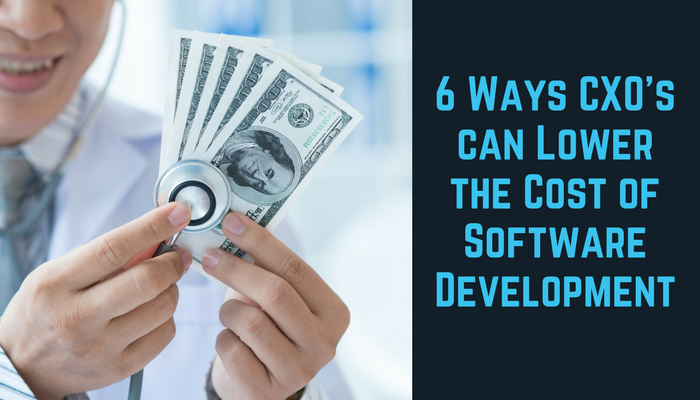
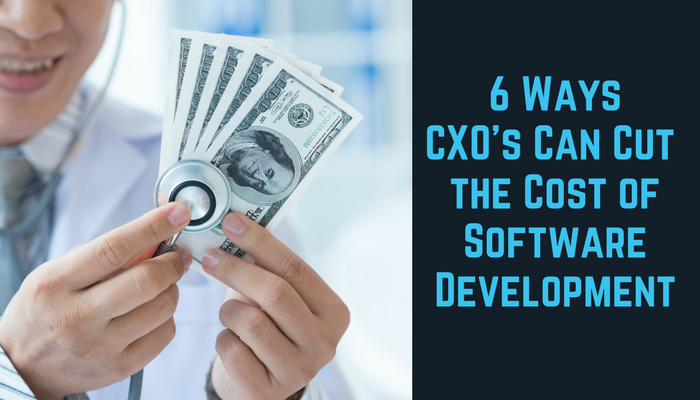
updated fixes

Changed region(s): [[0.6, 0.18, 0.96, 0.42]]

diff --git a/_posts/6-ways-cxos-lower-the-cost-of-software-development/2017-02-16-6-ways-cxos-lower-the-cost-of-software-development.md b/_posts/6-ways-cxos-lower-the-cost-of-software-development/2017-02-16-6-ways-cxos-lower-the-cost-of-software-development.md
@@ -5,10 +5,10 @@ author: Pete Heard
 excerpt: This article discusses how C-level execs (CEO, CTO, COO, CIO and IT Directors) and software leaders can make software development more efficient using Lean and reduce cost!
 thumbnail: 404.jpg
 category : agile
-date:   2017-02-16 06:14:00 +0000
+date:   2017-02-16 05:44:00 +0000
 ---
 
-When you cut costs, profits go up and research [carried out by IBM](https://www-01.ibm.com/common/ssi/cgi-bin/ssialias?subtype=XB&infotype=PM&htmlfid=GBE03729USEN&attachment=GBE03729USEN.PDF) on 5000 business leaders in 2015 found that cutting cost is the fourth highest priority for a C-level exec  (CEO, CTO, COO, CIO and IT Directors).
+When you cut costs, profits go up and research [carried out by IBM](https://www-01.ibm.com/common/ssi/cgi-bin/ssialias?subtype=XB&infotype=PM&htmlfid=GBE03729USEN&attachment=GBE03729USEN.PDF){:target="_blank"} on 5000 business leaders in 2015 found that cutting cost is the fourth highest priority for a C-level exec  (CEO, CTO, COO, CIO and IT Directors).
 
 ![The top priorities for C-level execs](images/2_image.png "The top priorities for C-level execs"){:target="_blank"}
 > The top priorities for C-level execs courtesy of IBM
@@ -22,11 +22,11 @@ The best type of cost to cut is the one that saves not only hard cash but also t
 - **Technique 3** : Improve Requirements Building
 - **Technique 4** : Introduce a Testing Mind-set
 - **Technique 5** : Embrace DevOps and Continuous Integration/Continuous Deployment
-- **Technique 6** : Refactor Don't Rewrite
+- **Technique 6** : Refactor Legacy Systems - Don't Rewrite
 
 ## Lead Development Choices with Better Strategic Planning
 
-In one of my last blog posts I explored the [limitation of story points](https://www.logicroom.co/should-we-stop-using-agile-story-points/). I made the point that whilst story points may help the business manage a team, they don't necessarily help the team make software.
+In one of my last blog posts I explored the [limitation of story points](https://www.logicroom.co/should-we-stop-using-agile-story-points/){:target="_blank"}, I made the point that story points help the business manage a team but they don't necessarily help the team make software.
 
 I go on to clarify that we create software for companies that need to make a profit from it. This is done either by making money or saving money and this happens by adding value to customers. Story points don't capture any information about value from a customer's perspective.
 
@@ -46,13 +46,13 @@ We develop software for end users. Be it internal or external; our users are the
 
 Bad decisions cost us money; apart from wasting time physically developing them, we waste resources managing their development. Bad feature decisions can often create bloated solutions with features that simply don't provide a good Return on Investment (ROI).
 
-In the [Human Factors International video](../../C:%5CUsers%5CLENOVO%5CDownloads%5C%5Bhttps:%5Cwww.youtube.com%5Cwatch%3Fv=O94kYyzqvTc%5D(https:%5Cwww.youtube.com%5Cwatch%3Fv=O94kYyzqvTc)), Dr. Susan Weinschenk notes that of those IT investments, up to 15% of IT projects are abandoned and at least 50% of a programmer's time during the project is spent doing rework that is avoidable. Following best practices helps to identify challenges upfront so that a solution can be found early.
+In the [Human Factors International video](https://www.youtube.com/user/HFIvideo){:target="_blank"}, Dr. Susan Weinschenk notes that of those IT investments, up to 15% of IT projects are abandoned and at least 50% of a programmer's time during the project is spent doing rework that is avoidable. Following best practices helps to identify challenges upfront so that a solution can be found early.
 
 By using data we can begin to profile our users and improve our decision making. The following approaches can be used:
 
 ### Web and Mobile Analytics
 
-For example, here is one such tool we use here at Logic Room [hotjar](https://www.hotjar.com){: target="_blank"} which helps us create HeatMaps that we use to monitor our homepage to see which links were clicked on the most.
+For example, here is one such tool we use here at Logic Room [hotjar](https://www.hotjar.com){:target="_blank"} which helps us create HeatMaps that we use to monitor our homepage to see which links were clicked on the most.
 
 You can get a very real idea of what it is that people want to do as soon as they come to our site; in our case - they want to read our blogs!
 
@@ -71,17 +71,17 @@ By analysing trends on social media we can see not only what is big with users a
 
 ### Paid Digital Advertising and A/B testing
 
-Apart from using advertising to actually sell products, paid advertising is very effective at controlling what potential users see and thus what they click on. By strategically placing ads on Google or another search engine and seeing what makes them click, we can build up a profile of what our users are interested in.
+Apart from using advertising to sell products, paid advertising is very effective at controlling what potential users see and thus what they click on. By strategically placing ads on Google or another search engine and seeing what makes them click, we can build up a profile of what our users are interested in, this is called 'A/B split testing'.
 
-For example, if I want to create network virtualisation software I can run 1000 ads. On 500 of them I advertise a drag and drop interface. On the others, a command line interface. By seeing which receives the most clicks, I know which feature to develop first. This type of feature development is actually inspired by the biological standpoint of natural selection and is emerging as a powerful way to drive business strategy. For a really interesting case study about these sorts of techniques I recommend a fantastic book [Why The Tories Won (the 2015 election)](https://www.amazon.co.uk/dp/B016DE6COE/ref=dp-kindle-redirect?_encoding=UTF8&btkr=1) which talks about many methods the Tories used to get into the heads of voters to find out what they wanted using digital strategies. They then knew **exactly** how to run their campaign by using data. The same rules can be applied to development.
+For example, if I want to create network virtualisation software I can run 1000 ads. On 500 of them I advertise a drag and drop interface. On the others, a command line interface. By seeing which receives the most clicks, I know which feature to develop first. This type of feature development is actually inspired by the biological standpoint of natural selection and is emerging as a powerful way to drive business strategy. For a really interesting case study about these sorts of techniques I recommend a fantastic book [Why The Tories Won (the 2015 election)](https://www.amazon.co.uk/dp/B016DE6COE/ref=dp-kindle-redirect?_encoding=UTF8&btkr=1){:target="_blank"} which talks about many methods the Tories used to get into the heads of voters to find out what they wanted using digital strategies. They then knew **exactly** how to run their campaign by using data. The same rules can be applied to development.
 
 ![David Cameron exercising his thumbs](images/1_image.png "David Cameron exercising his thumbs")
-> David doing his 'thumb' thing (source : guardian)
+> David doing his 'thumb' thing
 
 
 ## Improve Requirements Building
 
-The global, non-profit application developers' portal 'App Developers Alliance' collected data for their [Insights Report](https://www.appdevelopersalliance.org/developer-insights-report-2015) and they found that 48% of project failures are from poorly documented requirements.
+The global, non-profit application developers' portal 'App Developers Alliance' collected data for their [Insights Report](https://www.appdevelopersalliance.org/developer-insights-report-2015){:target="_blank"} and they found that 48% of project failures are from poorly documented requirements.
 
 The _most_ inefficient way to develop software is to fail outright. So in order to be more efficient and cost effective we can look to improve the process of requirements building.
 
@@ -107,13 +107,13 @@ There is a very clear relationship between software quality and cost. When code 
 ![he inverse relationship between cost and quality](images/4_image.png "he inverse relationship between cost and quality")
 > The inverse relationship between cost and quality
 
-Test Driven Development (TDD) is a discipline that developers use where they write tests before they write code. Interesting [research](https://www.infoq.com/news/2009/03/TDD-Improves-Quality) carried out by a number of large vendors (for example, Microsoft) indicates the TDD approach has been proven to reduce the cost of development by improving quality.
+Test Driven Development (TDD) is a discipline that developers use where they write tests before they write code. Interesting [research](https://www.infoq.com/news/2009/03/TDD-Improves-Quality){:target="_blank"} carried out by a number of large vendors (for example, Microsoft) indicates the TDD approach has been proven to reduce the cost of development by improving quality.
 
 TDD can be difficult to implement correctly in an organisation because it is often administered in a way that doesn't promote speed and ease of use. Be sure to download our [TDD guide](https://www.logicroom.co/tdd-simplified-in-5-steps/){: target="\_blank"} which breaks it down into easy to do steps.
 
 ## Embrace DevOps and Continuous Integration/Continuous Deployment
 
-DevOps is a software development practice that refers to an entire team taking responsibility for the automation of end-to-end software packages and releases - in the book ['A Practical Approach to Large-Scale Agile Development'](https://www.amazon.com/dp/0321821726?tag=contindelive-20) some interesting figures were cited where they speak about applying DevOps; they found:
+DevOps is a software development practice that refers to an entire team taking responsibility for the automation of end-to-end software packages and releases - in the book ['A Practical Approach to Large-Scale Agile Development'](https://www.amazon.com/dp/0321821726?tag=contindelive-20){:target="_blank"} some interesting figures were cited where they speak about applying DevOps; they found:
 
 - Overall development costs reduced by ~40%
 - Programs under development increased by ~140%
@@ -129,9 +129,9 @@ _'Give me six hours to chop down a tree and I will spend the first four sharpeni
 
 DevOps is fundamentally about culture; a culture of automation reduces complexity and this will drive down cost and improve efficiency.
 
-## Refactor Systems - Don't Rewrite
+## Refactor Legacy Systems - Don't Rewrite
 
-Astonishingly, there is [$1,000,000 of technical debt](https://www.logicroom.co/the-cost-of-poor-quality-code-on-digital-transformation/) included in the average code base.
+Astonishingly, there is [$1,000,000 of technical debt](https://www.logicroom.co/the-cost-of-poor-quality-code-on-digital-transformation/){:target="_blank"} included in the average code base.
 
 The article I linked to (above) shows that this debt causes huge problems for organisations. There are several problems that bad code is likely to create in an organisation
 
@@ -143,7 +143,7 @@ All of the above drive up cost and reduce efficiency.
 
 Legacy code is in every organisation and organisations often re-write entire systems. However refactoring (modernising) legacy systems is often a far better approach.
 
-A skilled engineer can help their client/employer slowly improve code. They can do it in a non-destructive way that mitigates risk. You can read more about the approach using Michael Feathers book called [Working Effectively with Legacy Code](https://www.amazon.co.uk/Working-Effectively-Legacy-Michael-Feathers/dp/0131177052).
+A skilled engineer can help their client/employer slowly improve code. They can do it in a non-destructive way that mitigates risk. You can read more about the approach using Michael Feathers book called [Working Effectively with Legacy Code](https://www.amazon.co.uk/Working-Effectively-Legacy-Michael-Feathers/dp/0131177052){:target="_blank"}.
 
 ## Conclusion
 
